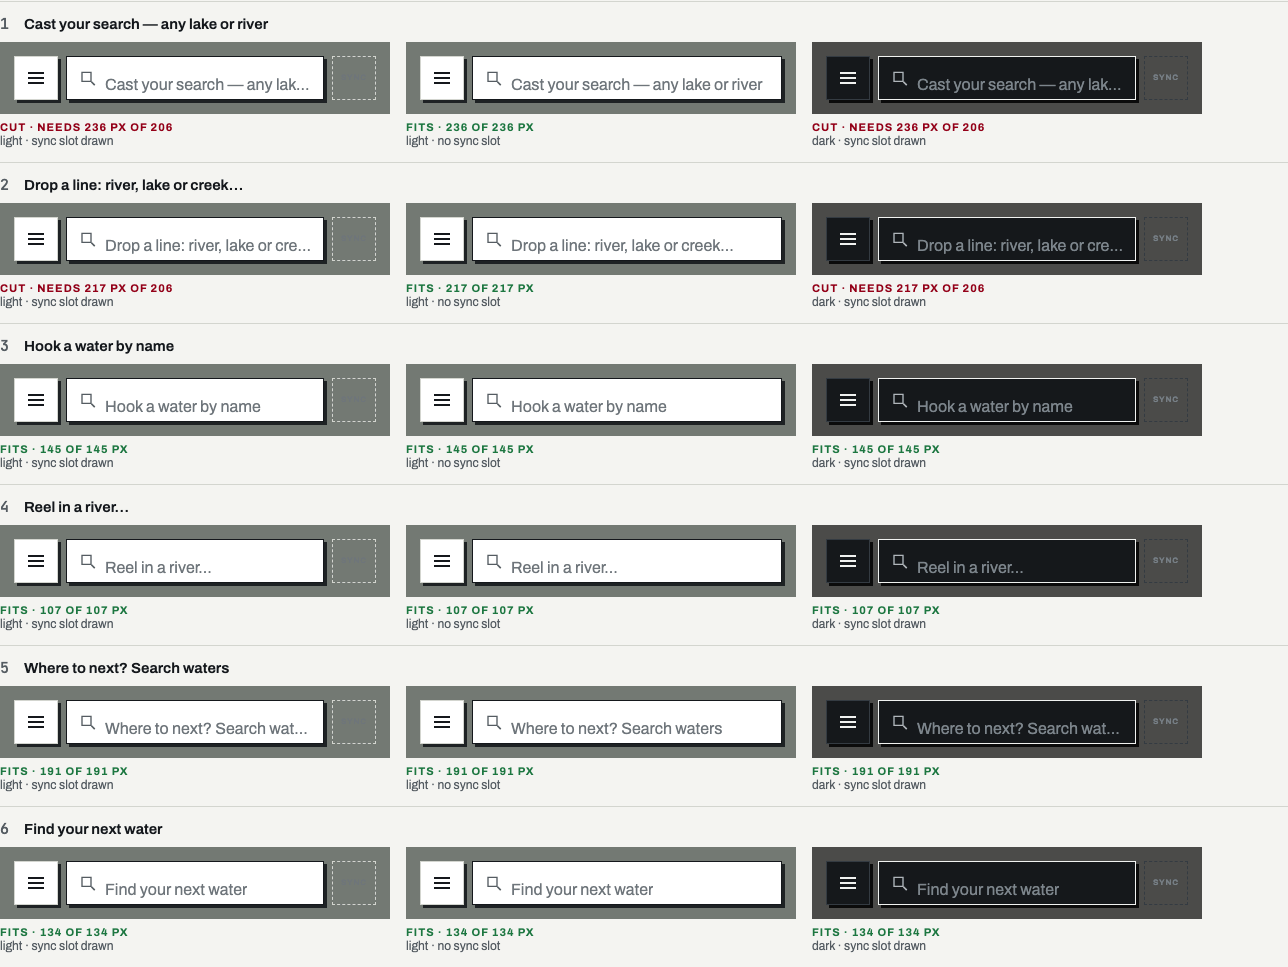
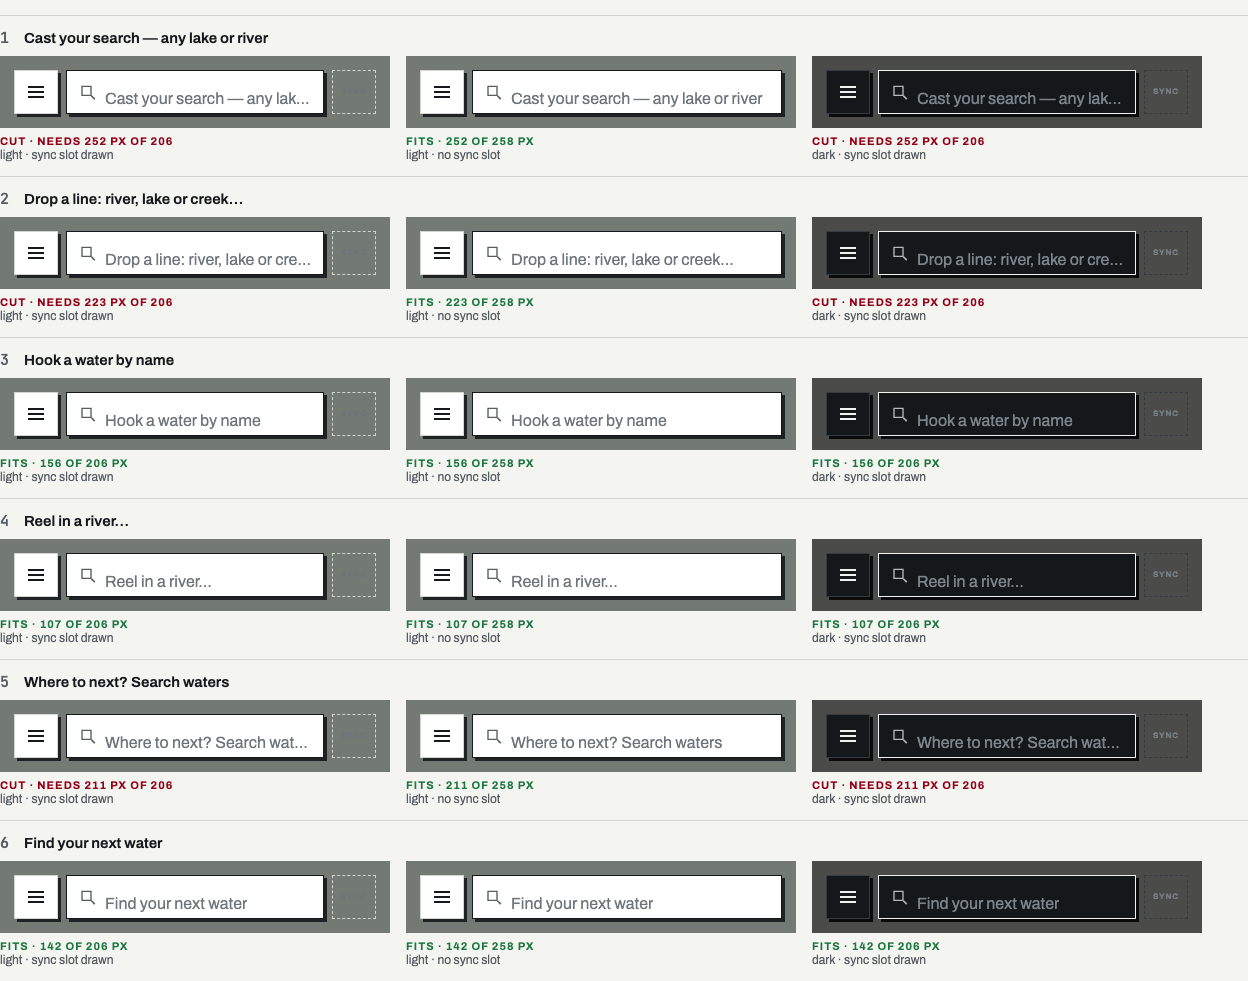
T48 review: placeholder fit measured after the web fonts load (line 5 is cut too)
The fit labels were measured at parse time in the fallback font, so every
width was understated and line 5 read as fitting. The script now waits for
document.fonts.ready, measures the room the field leaves the words (206 px
with the sync slot, 258 without), c-placeholders.png is re-shot, and
owner question 2 names all three cut lines (1: 252, 2: 223, 5: 211 px).

diff --git a/handoff/PLAN/app-data/search-topbar/mocks.html b/handoff/PLAN/app-data/search-topbar/mocks.html
@@ -259,7 +259,7 @@ flow ramp) stays at the bottom in every option.</p>
 <h2 id="c">(c) The placeholder lines</h2>
 <p class="lede">One line per opening, picked from the words table and never cycled while visible; the accessible label is
 always the plain “Search waters”. Each is drawn in the real field at 390 wide. The field is 258 px wide with the sync
-slot drawn (about 208 px for words after the lens), 310 px without it. “Cut” means the line is truncated with an
+slot drawn (206 px for the words after the lens), 310 px without it (258 px for the words). “Cut” means the line is truncated with an
 ellipsis at that width.</p>
 <div class="ph-wrap"><div class="ph"><div class="phline"><h4><span class="n">1</span>Cast your search — any lake or river</h4><div class="phcells"><div class="phcell"><div class="phrow t-light"><div class="strip"><div class="topbar" style="top:55px"><div class="mbtn" aria-label="Menu"><span style="opacity:1.0"><span class="menuicon"><i></i><i></i><i></i></span></span><span class="backglyph" style="opacity:0.0"><svg width="22" height="22" viewBox="0 0 24 24" fill="none" aria-hidden="true"><path d="M15 4L7 12L15 20" stroke="currentColor" stroke-width="2.4" stroke-linecap="butt" stroke-linejoin="miter"/></svg></span></div><div class="field" aria-label="Search waters"><svg width="18" height="18" viewBox="0 0 24 24" fill="none" aria-hidden="true"><path d="M4 4.5H16V16.5H4Z" stroke="currentColor" stroke-width="1.8" stroke-linecap="butt" stroke-linejoin="miter"/><path d="M16.5 17L21 21.5" stroke="currentColor" stroke-width="2.2" stroke-linecap="butt" stroke-linejoin="miter"/></svg><span class="fwrap"><span class="ph">Cast your search — any lake or river</span></span></div><div class="sync" title="reserved for sync: draws nothing until sync exists"><span>sync</span></div></div></div></div><span class="fit" data-fit></span><span class="phlab">light · sync slot drawn</span></div><div class="phcell"><div class="phrow t-light"><div class="strip"><div class="topbar" style="top:55px"><div class="mbtn" aria-label="Menu"><span style="opacity:1.0"><span class="menuicon"><i></i><i></i><i></i></span></span><span class="backglyph" style="opacity:0.0"><svg width="22" height="22" viewBox="0 0 24 24" fill="none" aria-hidden="true"><path d="M15 4L7 12L15 20" stroke="currentColor" stroke-width="2.4" stroke-linecap="butt" stroke-linejoin="miter"/></svg></span></div><div class="field" aria-label="Search waters"><svg width="18" height="18" viewBox="0 0 24 24" fill="none" aria-hidden="true"><path d="M4 4.5H16V16.5H4Z" stroke="currentColor" stroke-width="1.8" stroke-linecap="butt" stroke-linejoin="miter"/><path d="M16.5 17L21 21.5" stroke="currentColor" stroke-width="2.2" stroke-linecap="butt" stroke-linejoin="miter"/></svg><span class="fwrap"><span class="ph">Cast your search — any lake or river</span></span></div></div></div></div><span class="fit" data-fit></span><span class="phlab">light · no sync slot</span></div><div class="phcell"><div class="phrow t-dark"><div class="strip"><div class="topbar" style="top:55px"><div class="mbtn" aria-label="Menu"><span style="opacity:1.0"><span class="menuicon"><i></i><i></i><i></i></span></span><span class="backglyph" style="opacity:0.0"><svg width="22" height="22" viewBox="0 0 24 24" fill="none" aria-hidden="true"><path d="M15 4L7 12L15 20" stroke="currentColor" stroke-width="2.4" stroke-linecap="butt" stroke-linejoin="miter"/></svg></span></div><div class="field" aria-label="Search waters"><svg width="18" height="18" viewBox="0 0 24 24" fill="none" aria-hidden="true"><path d="M4 4.5H16V16.5H4Z" stroke="currentColor" stroke-width="1.8" stroke-linecap="butt" stroke-linejoin="miter"/><path d="M16.5 17L21 21.5" stroke="currentColor" stroke-width="2.2" stroke-linecap="butt" stroke-linejoin="miter"/></svg><span class="fwrap"><span class="ph">Cast your search — any lake or river</span></span></div><div class="sync" title="reserved for sync: draws nothing until sync exists"><span>sync</span></div></div></div></div><span class="fit" data-fit></span><span class="phlab">dark · sync slot drawn</span></div></div></div><div class="phline"><h4><span class="n">2</span>Drop a line: river, lake or creek…</h4><div class="phcells"><div class="phcell"><div class="phrow t-light"><div class="strip"><div class="topbar" style="top:55px"><div class="mbtn" aria-label="Menu"><span style="opacity:1.0"><span class="menuicon"><i></i><i></i><i></i></span></span><span class="backglyph" style="opacity:0.0"><svg width="22" height="22" viewBox="0 0 24 24" fill="none" aria-hidden="true"><path d="M15 4L7 12L15 20" stroke="currentColor" stroke-width="2.4" stroke-linecap="butt" stroke-linejoin="miter"/></svg></span></div><div class="field" aria-label="Search waters"><svg width="18" height="18" viewBox="0 0 24 24" fill="none" aria-hidden="true"><path d="M4 4.5H16V16.5H4Z" stroke="currentColor" stroke-width="1.8" stroke-linecap="butt" stroke-linejoin="miter"/><path d="M16.5 17L21 21.5" stroke="currentColor" stroke-width="2.2" stroke-linecap="butt" stroke-linejoin="miter"/></svg><span class="fwrap"><span class="ph">Drop a line: river, lake or creek…</span></span></div><div class="sync" title="reserved for sync: draws nothing until sync exists"><span>sync</span></div></div></div></div><span class="fit" data-fit></span><span class="phlab">light · sync slot drawn</span></div><div class="phcell"><div class="phrow t-light"><div class="strip"><div class="topbar" style="top:55px"><div class="mbtn" aria-label="Menu"><span style="opacity:1.0"><span class="menuicon"><i></i><i></i><i></i></span></span><span class="backglyph" style="opacity:0.0"><svg width="22" height="22" viewBox="0 0 24 24" fill="none" aria-hidden="true"><path d="M15 4L7 12L15 20" stroke="currentColor" stroke-width="2.4" stroke-linecap="butt" stroke-linejoin="miter"/></svg></span></div><div class="field" aria-label="Search waters"><svg width="18" height="18" viewBox="0 0 24 24" fill="none" aria-hidden="true"><path d="M4 4.5H16V16.5H4Z" stroke="currentColor" stroke-width="1.8" stroke-linecap="butt" stroke-linejoin="miter"/><path d="M16.5 17L21 21.5" stroke="currentColor" stroke-width="2.2" stroke-linecap="butt" stroke-linejoin="miter"/></svg><span class="fwrap"><span class="ph">Drop a line: river, lake or creek…</span></span></div></div></div></div><span class="fit" data-fit></span><span class="phlab">light · no sync slot</span></div><div class="phcell"><div class="phrow t-dark"><div class="strip"><div class="topbar" style="top:55px"><div class="mbtn" aria-label="Menu"><span style="opacity:1.0"><span class="menuicon"><i></i><i></i><i></i></span></span><span class="backglyph" style="opacity:0.0"><svg width="22" height="22" viewBox="0 0 24 24" fill="none" aria-hidden="true"><path d="M15 4L7 12L15 20" stroke="currentColor" stroke-width="2.4" stroke-linecap="butt" stroke-linejoin="miter"/></svg></span></div><div class="field" aria-label="Search waters"><svg width="18" height="18" viewBox="0 0 24 24" fill="none" aria-hidden="true"><path d="M4 4.5H16V16.5H4Z" stroke="currentColor" stroke-width="1.8" stroke-linecap="butt" stroke-linejoin="miter"/><path d="M16.5 17L21 21.5" stroke="currentColor" stroke-width="2.2" stroke-linecap="butt" stroke-linejoin="miter"/></svg><span class="fwrap"><span class="ph">Drop a line: river, lake or creek…</span></span></div><div class="sync" title="reserved for sync: draws nothing until sync exists"><span>sync</span></div></div></div></div><span class="fit" data-fit></span><span class="phlab">dark · sync slot drawn</span></div></div></div><div class="phline"><h4><span class="n">3</span>Hook a water by name</h4><div class="phcells"><div class="phcell"><div class="phrow t-light"><div class="strip"><div class="topbar" style="top:55px"><div class="mbtn" aria-label="Menu"><span style="opacity:1.0"><span class="menuicon"><i></i><i></i><i></i></span></span><span class="backglyph" style="opacity:0.0"><svg width="22" height="22" viewBox="0 0 24 24" fill="none" aria-hidden="true"><path d="M15 4L7 12L15 20" stroke="currentColor" stroke-width="2.4" stroke-linecap="butt" stroke-linejoin="miter"/></svg></span></div><div class="field" aria-label="Search waters"><svg width="18" height="18" viewBox="0 0 24 24" fill="none" aria-hidden="true"><path d="M4 4.5H16V16.5H4Z" stroke="currentColor" stroke-width="1.8" stroke-linecap="butt" stroke-linejoin="miter"/><path d="M16.5 17L21 21.5" stroke="currentColor" stroke-width="2.2" stroke-linecap="butt" stroke-linejoin="miter"/></svg><span class="fwrap"><span class="ph">Hook a water by name</span></span></div><div class="sync" title="reserved for sync: draws nothing until sync exists"><span>sync</span></div></div></div></div><span class="fit" data-fit></span><span class="phlab">light · sync slot drawn</span></div><div class="phcell"><div class="phrow t-light"><div class="strip"><div class="topbar" style="top:55px"><div class="mbtn" aria-label="Menu"><span style="opacity:1.0"><span class="menuicon"><i></i><i></i><i></i></span></span><span class="backglyph" style="opacity:0.0"><svg width="22" height="22" viewBox="0 0 24 24" fill="none" aria-hidden="true"><path d="M15 4L7 12L15 20" stroke="currentColor" stroke-width="2.4" stroke-linecap="butt" stroke-linejoin="miter"/></svg></span></div><div class="field" aria-label="Search waters"><svg width="18" height="18" viewBox="0 0 24 24" fill="none" aria-hidden="true"><path d="M4 4.5H16V16.5H4Z" stroke="currentColor" stroke-width="1.8" stroke-linecap="butt" stroke-linejoin="miter"/><path d="M16.5 17L21 21.5" stroke="currentColor" stroke-width="2.2" stroke-linecap="butt" stroke-linejoin="miter"/></svg><span class="fwrap"><span class="ph">Hook a water by name</span></span></div></div></div></div><span class="fit" data-fit></span><span class="phlab">light · no sync slot</span></div><div class="phcell"><div class="phrow t-dark"><div class="strip"><div class="topbar" style="top:55px"><div class="mbtn" aria-label="Menu"><span style="opacity:1.0"><span class="menuicon"><i></i><i></i><i></i></span></span><span class="backglyph" style="opacity:0.0"><svg width="22" height="22" viewBox="0 0 24 24" fill="none" aria-hidden="true"><path d="M15 4L7 12L15 20" stroke="currentColor" stroke-width="2.4" stroke-linecap="butt" stroke-linejoin="miter"/></svg></span></div><div class="field" aria-label="Search waters"><svg width="18" height="18" viewBox="0 0 24 24" fill="none" aria-hidden="true"><path d="M4 4.5H16V16.5H4Z" stroke="currentColor" stroke-width="1.8" stroke-linecap="butt" stroke-linejoin="miter"/><path d="M16.5 17L21 21.5" stroke="currentColor" stroke-width="2.2" stroke-linecap="butt" stroke-linejoin="miter"/></svg><span class="fwrap"><span class="ph">Hook a water by name</span></span></div><div class="sync" title="reserved for sync: draws nothing until sync exists"><span>sync</span></div></div></div></div><span class="fit" data-fit></span><span class="phlab">dark · sync slot drawn</span></div></div></div><div class="phline"><h4><span class="n">4</span>Reel in a river…</h4><div class="phcells"><div class="phcell"><div class="phrow t-light"><div class="strip"><div class="topbar" style="top:55px"><div class="mbtn" aria-label="Menu"><span style="opacity:1.0"><span class="menuicon"><i></i><i></i><i></i></span></span><span class="backglyph" style="opacity:0.0"><svg width="22" height="22" viewBox="0 0 24 24" fill="none" aria-hidden="true"><path d="M15 4L7 12L15 20" stroke="currentColor" stroke-width="2.4" stroke-linecap="butt" stroke-linejoin="miter"/></svg></span></div><div class="field" aria-label="Search waters"><svg width="18" height="18" viewBox="0 0 24 24" fill="none" aria-hidden="true"><path d="M4 4.5H16V16.5H4Z" stroke="currentColor" stroke-width="1.8" stroke-linecap="butt" stroke-linejoin="miter"/><path d="M16.5 17L21 21.5" stroke="currentColor" stroke-width="2.2" stroke-linecap="butt" stroke-linejoin="miter"/></svg><span class="fwrap"><span class="ph">Reel in a river…</span></span></div><div class="sync" title="reserved for sync: draws nothing until sync exists"><span>sync</span></div></div></div></div><span class="fit" data-fit></span><span class="phlab">light · sync slot drawn</span></div><div class="phcell"><div class="phrow t-light"><div class="strip"><div class="topbar" style="top:55px"><div class="mbtn" aria-label="Menu"><span style="opacity:1.0"><span class="menuicon"><i></i><i></i><i></i></span></span><span class="backglyph" style="opacity:0.0"><svg width="22" height="22" viewBox="0 0 24 24" fill="none" aria-hidden="true"><path d="M15 4L7 12L15 20" stroke="currentColor" stroke-width="2.4" stroke-linecap="butt" stroke-linejoin="miter"/></svg></span></div><div class="field" aria-label="Search waters"><svg width="18" height="18" viewBox="0 0 24 24" fill="none" aria-hidden="true"><path d="M4 4.5H16V16.5H4Z" stroke="currentColor" stroke-width="1.8" stroke-linecap="butt" stroke-linejoin="miter"/><path d="M16.5 17L21 21.5" stroke="currentColor" stroke-width="2.2" stroke-linecap="butt" stroke-linejoin="miter"/></svg><span class="fwrap"><span class="ph">Reel in a river…</span></span></div></div></div></div><span class="fit" data-fit></span><span class="phlab">light · no sync slot</span></div><div class="phcell"><div class="phrow t-dark"><div class="strip"><div class="topbar" style="top:55px"><div class="mbtn" aria-label="Menu"><span style="opacity:1.0"><span class="menuicon"><i></i><i></i><i></i></span></span><span class="backglyph" style="opacity:0.0"><svg width="22" height="22" viewBox="0 0 24 24" fill="none" aria-hidden="true"><path d="M15 4L7 12L15 20" stroke="currentColor" stroke-width="2.4" stroke-linecap="butt" stroke-linejoin="miter"/></svg></span></div><div class="field" aria-label="Search waters"><svg width="18" height="18" viewBox="0 0 24 24" fill="none" aria-hidden="true"><path d="M4 4.5H16V16.5H4Z" stroke="currentColor" stroke-width="1.8" stroke-linecap="butt" stroke-linejoin="miter"/><path d="M16.5 17L21 21.5" stroke="currentColor" stroke-width="2.2" stroke-linecap="butt" stroke-linejoin="miter"/></svg><span class="fwrap"><span class="ph">Reel in a river…</span></span></div><div class="sync" title="reserved for sync: draws nothing until sync exists"><span>sync</span></div></div></div></div><span class="fit" data-fit></span><span class="phlab">dark · sync slot drawn</span></div></div></div><div class="phline"><h4><span class="n">5</span>Where to next? Search waters</h4><div class="phcells"><div class="phcell"><div class="phrow t-light"><div class="strip"><div class="topbar" style="top:55px"><div class="mbtn" aria-label="Menu"><span style="opacity:1.0"><span class="menuicon"><i></i><i></i><i></i></span></span><span class="backglyph" style="opacity:0.0"><svg width="22" height="22" viewBox="0 0 24 24" fill="none" aria-hidden="true"><path d="M15 4L7 12L15 20" stroke="currentColor" stroke-width="2.4" stroke-linecap="butt" stroke-linejoin="miter"/></svg></span></div><div class="field" aria-label="Search waters"><svg width="18" height="18" viewBox="0 0 24 24" fill="none" aria-hidden="true"><path d="M4 4.5H16V16.5H4Z" stroke="currentColor" stroke-width="1.8" stroke-linecap="butt" stroke-linejoin="miter"/><path d="M16.5 17L21 21.5" stroke="currentColor" stroke-width="2.2" stroke-linecap="butt" stroke-linejoin="miter"/></svg><span class="fwrap"><span class="ph">Where to next? Search waters</span></span></div><div class="sync" title="reserved for sync: draws nothing until sync exists"><span>sync</span></div></div></div></div><span class="fit" data-fit></span><span class="phlab">light · sync slot drawn</span></div><div class="phcell"><div class="phrow t-light"><div class="strip"><div class="topbar" style="top:55px"><div class="mbtn" aria-label="Menu"><span style="opacity:1.0"><span class="menuicon"><i></i><i></i><i></i></span></span><span class="backglyph" style="opacity:0.0"><svg width="22" height="22" viewBox="0 0 24 24" fill="none" aria-hidden="true"><path d="M15 4L7 12L15 20" stroke="currentColor" stroke-width="2.4" stroke-linecap="butt" stroke-linejoin="miter"/></svg></span></div><div class="field" aria-label="Search waters"><svg width="18" height="18" viewBox="0 0 24 24" fill="none" aria-hidden="true"><path d="M4 4.5H16V16.5H4Z" stroke="currentColor" stroke-width="1.8" stroke-linecap="butt" stroke-linejoin="miter"/><path d="M16.5 17L21 21.5" stroke="currentColor" stroke-width="2.2" stroke-linecap="butt" stroke-linejoin="miter"/></svg><span class="fwrap"><span class="ph">Where to next? Search waters</span></span></div></div></div></div><span class="fit" data-fit></span><span class="phlab">light · no sync slot</span></div><div class="phcell"><div class="phrow t-dark"><div class="strip"><div class="topbar" style="top:55px"><div class="mbtn" aria-label="Menu"><span style="opacity:1.0"><span class="menuicon"><i></i><i></i><i></i></span></span><span class="backglyph" style="opacity:0.0"><svg width="22" height="22" viewBox="0 0 24 24" fill="none" aria-hidden="true"><path d="M15 4L7 12L15 20" stroke="currentColor" stroke-width="2.4" stroke-linecap="butt" stroke-linejoin="miter"/></svg></span></div><div class="field" aria-label="Search waters"><svg width="18" height="18" viewBox="0 0 24 24" fill="none" aria-hidden="true"><path d="M4 4.5H16V16.5H4Z" stroke="currentColor" stroke-width="1.8" stroke-linecap="butt" stroke-linejoin="miter"/><path d="M16.5 17L21 21.5" stroke="currentColor" stroke-width="2.2" stroke-linecap="butt" stroke-linejoin="miter"/></svg><span class="fwrap"><span class="ph">Where to next? Search waters</span></span></div><div class="sync" title="reserved for sync: draws nothing until sync exists"><span>sync</span></div></div></div></div><span class="fit" data-fit></span><span class="phlab">dark · sync slot drawn</span></div></div></div><div class="phline"><h4><span class="n">6</span>Find your next water</h4><div class="phcells"><div class="phcell"><div class="phrow t-light"><div class="strip"><div class="topbar" style="top:55px"><div class="mbtn" aria-label="Menu"><span style="opacity:1.0"><span class="menuicon"><i></i><i></i><i></i></span></span><span class="backglyph" style="opacity:0.0"><svg width="22" height="22" viewBox="0 0 24 24" fill="none" aria-hidden="true"><path d="M15 4L7 12L15 20" stroke="currentColor" stroke-width="2.4" stroke-linecap="butt" stroke-linejoin="miter"/></svg></span></div><div class="field" aria-label="Search waters"><svg width="18" height="18" viewBox="0 0 24 24" fill="none" aria-hidden="true"><path d="M4 4.5H16V16.5H4Z" stroke="currentColor" stroke-width="1.8" stroke-linecap="butt" stroke-linejoin="miter"/><path d="M16.5 17L21 21.5" stroke="currentColor" stroke-width="2.2" stroke-linecap="butt" stroke-linejoin="miter"/></svg><span class="fwrap"><span class="ph">Find your next water</span></span></div><div class="sync" title="reserved for sync: draws nothing until sync exists"><span>sync</span></div></div></div></div><span class="fit" data-fit></span><span class="phlab">light · sync slot drawn</span></div><div class="phcell"><div class="phrow t-light"><div class="strip"><div class="topbar" style="top:55px"><div class="mbtn" aria-label="Menu"><span style="opacity:1.0"><span class="menuicon"><i></i><i></i><i></i></span></span><span class="backglyph" style="opacity:0.0"><svg width="22" height="22" viewBox="0 0 24 24" fill="none" aria-hidden="true"><path d="M15 4L7 12L15 20" stroke="currentColor" stroke-width="2.4" stroke-linecap="butt" stroke-linejoin="miter"/></svg></span></div><div class="field" aria-label="Search waters"><svg width="18" height="18" viewBox="0 0 24 24" fill="none" aria-hidden="true"><path d="M4 4.5H16V16.5H4Z" stroke="currentColor" stroke-width="1.8" stroke-linecap="butt" stroke-linejoin="miter"/><path d="M16.5 17L21 21.5" stroke="currentColor" stroke-width="2.2" stroke-linecap="butt" stroke-linejoin="miter"/></svg><span class="fwrap"><span class="ph">Find your next water</span></span></div></div></div></div><span class="fit" data-fit></span><span class="phlab">light · no sync slot</span></div><div class="phcell"><div class="phrow t-dark"><div class="strip"><div class="topbar" style="top:55px"><div class="mbtn" aria-label="Menu"><span style="opacity:1.0"><span class="menuicon"><i></i><i></i><i></i></span></span><span class="backglyph" style="opacity:0.0"><svg width="22" height="22" viewBox="0 0 24 24" fill="none" aria-hidden="true"><path d="M15 4L7 12L15 20" stroke="currentColor" stroke-width="2.4" stroke-linecap="butt" stroke-linejoin="miter"/></svg></span></div><div class="field" aria-label="Search waters"><svg width="18" height="18" viewBox="0 0 24 24" fill="none" aria-hidden="true"><path d="M4 4.5H16V16.5H4Z" stroke="currentColor" stroke-width="1.8" stroke-linecap="butt" stroke-linejoin="miter"/><path d="M16.5 17L21 21.5" stroke="currentColor" stroke-width="2.2" stroke-linecap="butt" stroke-linejoin="miter"/></svg><span class="fwrap"><span class="ph">Find your next water</span></span></div><div class="sync" title="reserved for sync: draws nothing until sync exists"><span>sync</span></div></div></div></div><span class="fit" data-fit></span><span class="phlab">dark · sync slot drawn</span></div></div></div></div></div>
 
@@ -268,9 +268,11 @@ ellipsis at that width.</p>
 <ol>
 <li><b>Which bottom bar?</b> Option 1 (two-item bar Map · Conditions), 2a (a Map / Conditions strip inside the top bar),
 or 2b (a compact switch under the top bar). Clear map between the top chrome and the legend: 568 px (1), 601 px (2a), 641 px (2b).</li>
-<li><b>Long placeholder lines are cut.</b> At 390 wide with the sync slot drawn, the lines marked “Cut” in (c) do not fit.
-Shorten them (e.g. “Cast for a lake or river”, “Drop a line: river or lake”), or let the field take the sync slot's
-width until sync exists? (Without the slot both fit, the first with no room to spare: 236 of 236 px.)</li>
+<li><b>Three placeholder lines are cut.</b> At 390 wide with the sync slot drawn the words get 206 px, and three
+lines do not fit: 1 “Cast your search — any lake or river” needs 252 px, 2 “Drop a line: river, lake or creek…” needs
+223 px, 5 “Where to next? Search waters” needs 211 px. Shorten them (e.g. “Cast for a lake or river”, “Drop a line:
+river or lake”, “Where to next?”), or let the field take the sync slot's width until sync exists? (Without the slot
+the words get 258 px and all six fit, the first with 6 px to spare.)</li>
 <li><b>The empty sync slot</b> — keep a 44 px gap (the field never changes width when sync arrives), or let the field
 fill it until then? The mocks draw it as a dashed outline only so it can be seen; the default would draw nothing there.</li>
 <li><b>How search closes.</b> The mocks turn the menu button into ‹ while searching (same box, same place). Alternatively a
@@ -287,12 +289,16 @@ stops above the bar (option 1 only) — 96 px less map for the place.</li>
 </div>
 </main>
 <script>
-// (c) mark each drawn placeholder as fitting or cut, from the real field's width
+// Measured only after the web fonts load: measured in the fallback font the numbers are wrong.
+function measure() {
+// (c) mark each drawn placeholder as fitting or cut: the words' width against the room the field leaves them
 for (const td of document.querySelectorAll(".ph .phcell")) {
-  const ph = td.querySelector(".ph"), out = td.querySelector("[data-fit]");
-  if (!ph || !out) continue;
-  const cut = ph.scrollWidth > ph.clientWidth + 0.5;
-  out.textContent = cut ? `Cut · needs ${Math.ceil(ph.scrollWidth)} px of ${Math.floor(ph.clientWidth)}` : `Fits · ${Math.ceil(ph.scrollWidth)} of ${Math.floor(ph.clientWidth)} px`;
+  const ph = td.querySelector(".ph"), wrap = td.querySelector(".fwrap"), out = td.querySelector("[data-fit]");
+  if (!ph || !wrap || !out) continue;
+  const need = Math.ceil(ph.scrollWidth);
+  const room = Math.floor(wrap.clientWidth - parseFloat(getComputedStyle(wrap).paddingRight));
+  const cut = need > room;
+  out.textContent = cut ? `Cut · needs ${need} px of ${room}` : `Fits · ${need} of ${room} px`;
   out.className = "fit " + (cut ? "cut" : "ok");
 }
 // (a) the map left between the top chrome and the bottom chrome, per option (Map · light)
@@ -305,6 +311,9 @@ for (const code of ["1", "2a", "2b"]) {
   m.push(`option ${code}: ${Math.round(bot - top)} px`);
 }
 document.querySelector("[data-mapmeasure]").textContent = m.join(" · ");
+document.documentElement.dataset.measured = "1";
+}
+(document.fonts && document.fonts.ready ? document.fonts.ready : Promise.resolve()).then(measure, measure);
 </script>
 </body>
 </html>
